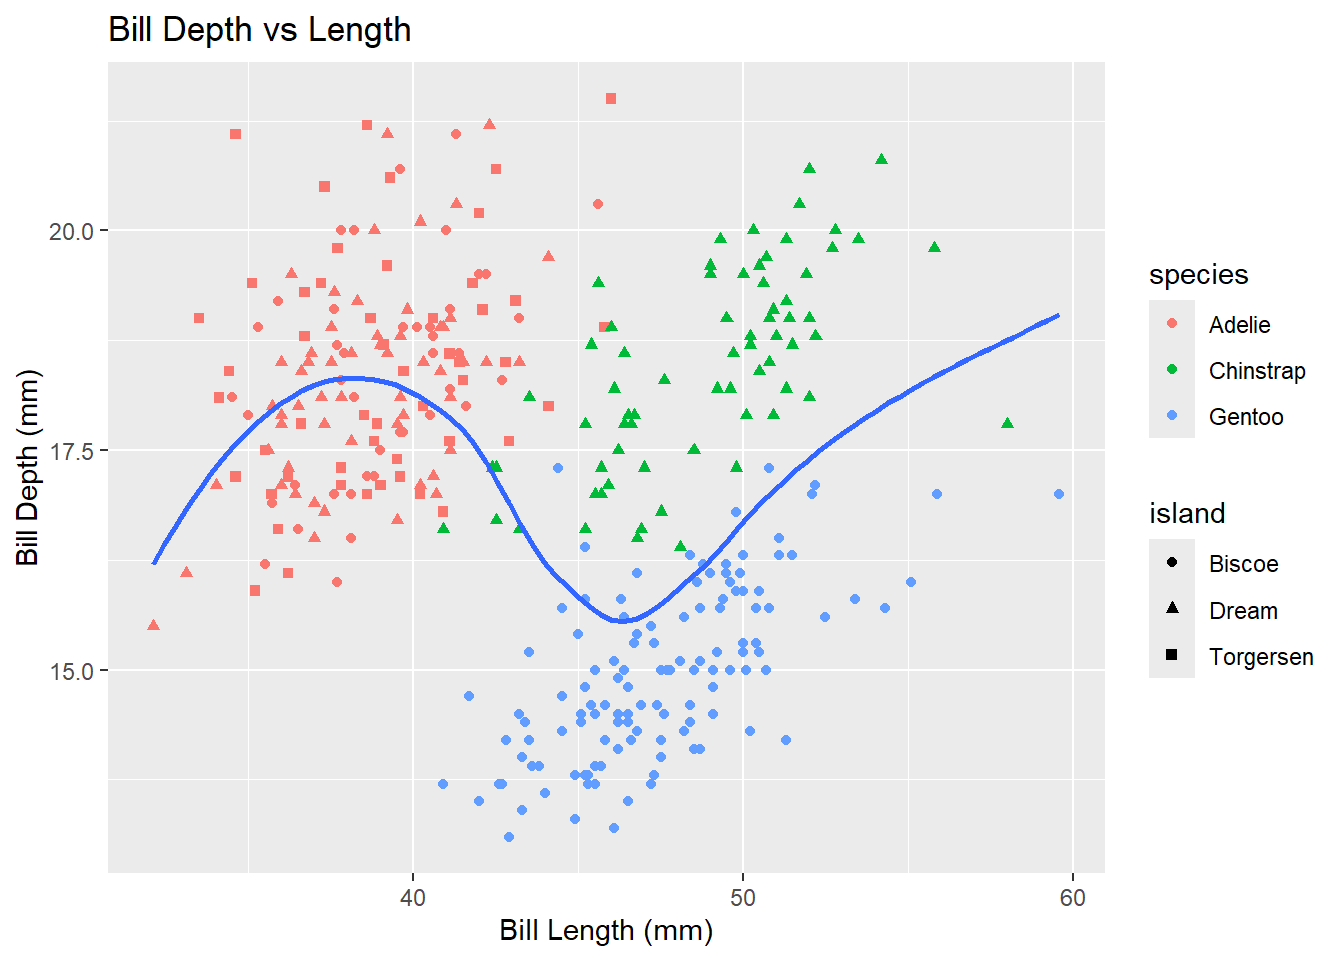
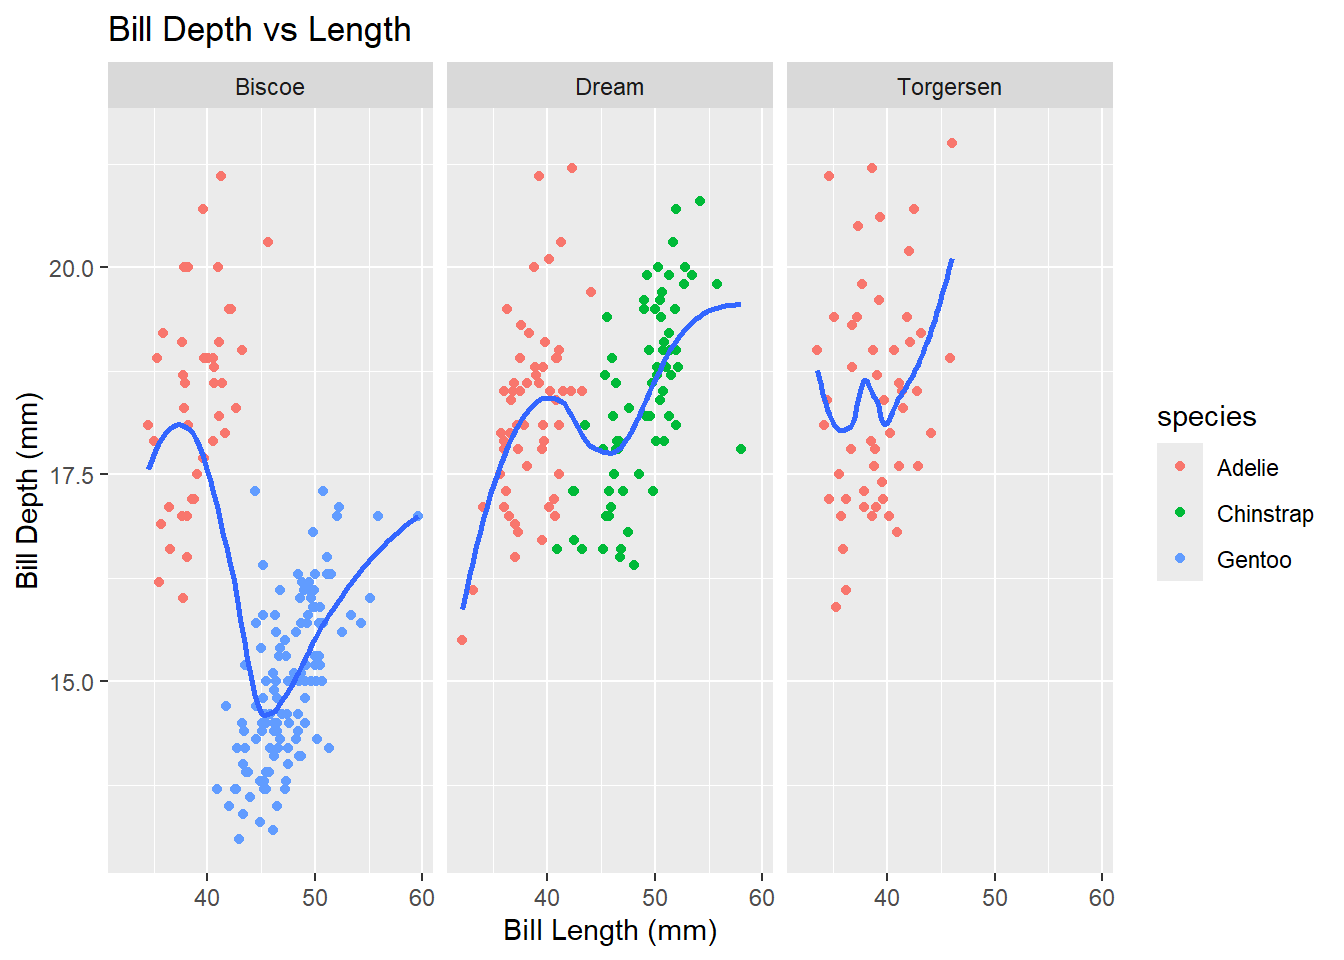
changed last plot

diff --git a/pa-3-ggplot.html b/pa-3-ggplot.html
@@ -243,12 +243,13 @@ pre > code.sourceCode > span > a:first-child::before { text-decoration: underlin
 <p>Building off of the plot you made in Step 7, add the location of the penguins ( <code>island</code>) to your visualization. There may be more than one method to address this, however, one method will more easily allow you to address the questions below.</p>
 <div class="cell">
 <div class="sourceCode cell-code" id="cb12"><pre class="sourceCode r code-with-copy"><code class="sourceCode r"><span id="cb12-1"><a href="#cb12-1" aria-hidden="true" tabindex="-1"></a><span class="fu">ggplot</span>(<span class="at">data =</span> penguins) <span class="sc">+</span></span>
-<span id="cb12-2"><a href="#cb12-2" aria-hidden="true" tabindex="-1"></a>  <span class="fu">geom_point</span>(<span class="at">mapping =</span> <span class="fu">aes</span>(<span class="at">x =</span> bill_length_mm, <span class="at">y =</span> bill_depth_mm, <span class="at">color=</span>species, <span class="at">shape=</span>island)) <span class="sc">+</span> </span>
+<span id="cb12-2"><a href="#cb12-2" aria-hidden="true" tabindex="-1"></a>  <span class="fu">geom_point</span>(<span class="at">mapping =</span> <span class="fu">aes</span>(<span class="at">x =</span> bill_length_mm, <span class="at">y =</span> bill_depth_mm, <span class="at">color=</span>species)) <span class="sc">+</span> </span>
 <span id="cb12-3"><a href="#cb12-3" aria-hidden="true" tabindex="-1"></a>  <span class="fu">geom_smooth</span>(<span class="at">mapping =</span> <span class="fu">aes</span>(<span class="at">x =</span> bill_length_mm, <span class="at">y =</span> bill_depth_mm),</span>
 <span id="cb12-4"><a href="#cb12-4" aria-hidden="true" tabindex="-1"></a>              <span class="at">se=</span>F) <span class="sc">+</span></span>
 <span id="cb12-5"><a href="#cb12-5" aria-hidden="true" tabindex="-1"></a>  <span class="fu">labs</span>(<span class="at">x=</span><span class="st">"Bill Length (mm)"</span>,</span>
 <span id="cb12-6"><a href="#cb12-6" aria-hidden="true" tabindex="-1"></a>       <span class="at">y=</span><span class="st">"Bill Depth (mm)"</span>,</span>
-<span id="cb12-7"><a href="#cb12-7" aria-hidden="true" tabindex="-1"></a>       <span class="at">title=</span><span class="st">"Bill Depth vs Length"</span>)</span></code><button title="Copy to Clipboard" class="code-copy-button"><i class="bi"></i></button></pre></div>
+<span id="cb12-7"><a href="#cb12-7" aria-hidden="true" tabindex="-1"></a>       <span class="at">title=</span><span class="st">"Bill Depth vs Length"</span>)<span class="sc">+</span></span>
+<span id="cb12-8"><a href="#cb12-8" aria-hidden="true" tabindex="-1"></a>  <span class="fu">facet_wrap</span>(<span class="sc">~</span>island)</span></code><button title="Copy to Clipboard" class="code-copy-button"><i class="bi"></i></button></pre></div>
 <div class="cell-output cell-output-stderr">
 <pre><code>`geom_smooth()` using method = 'loess' and formula = 'y ~ x'</code></pre>
 </div>
